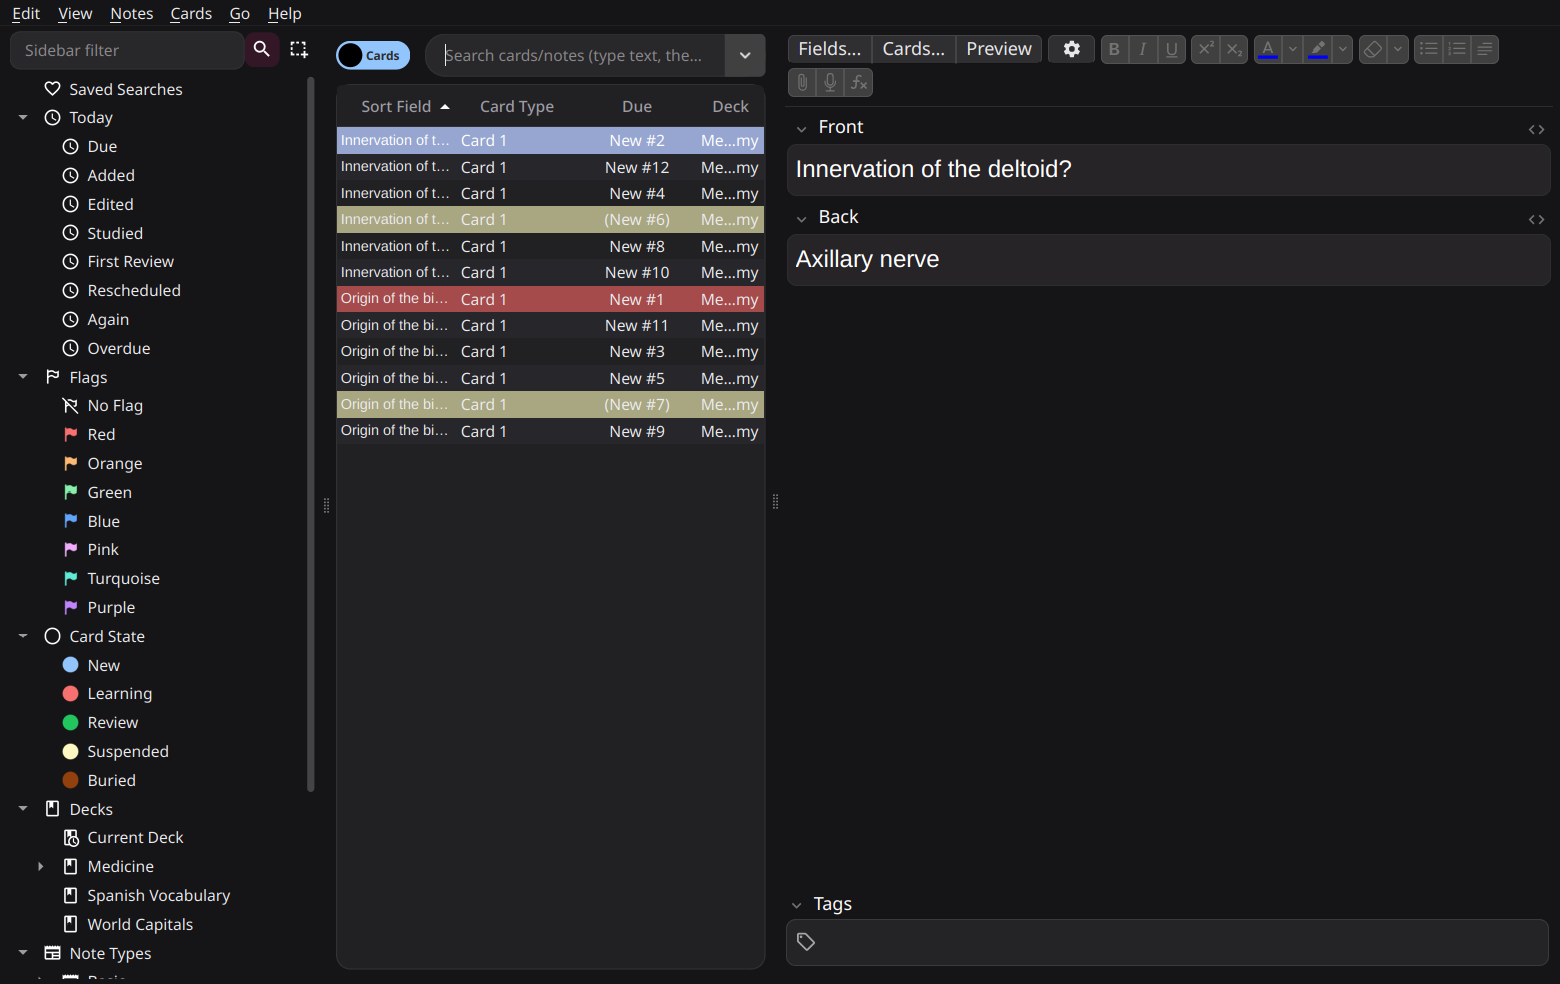
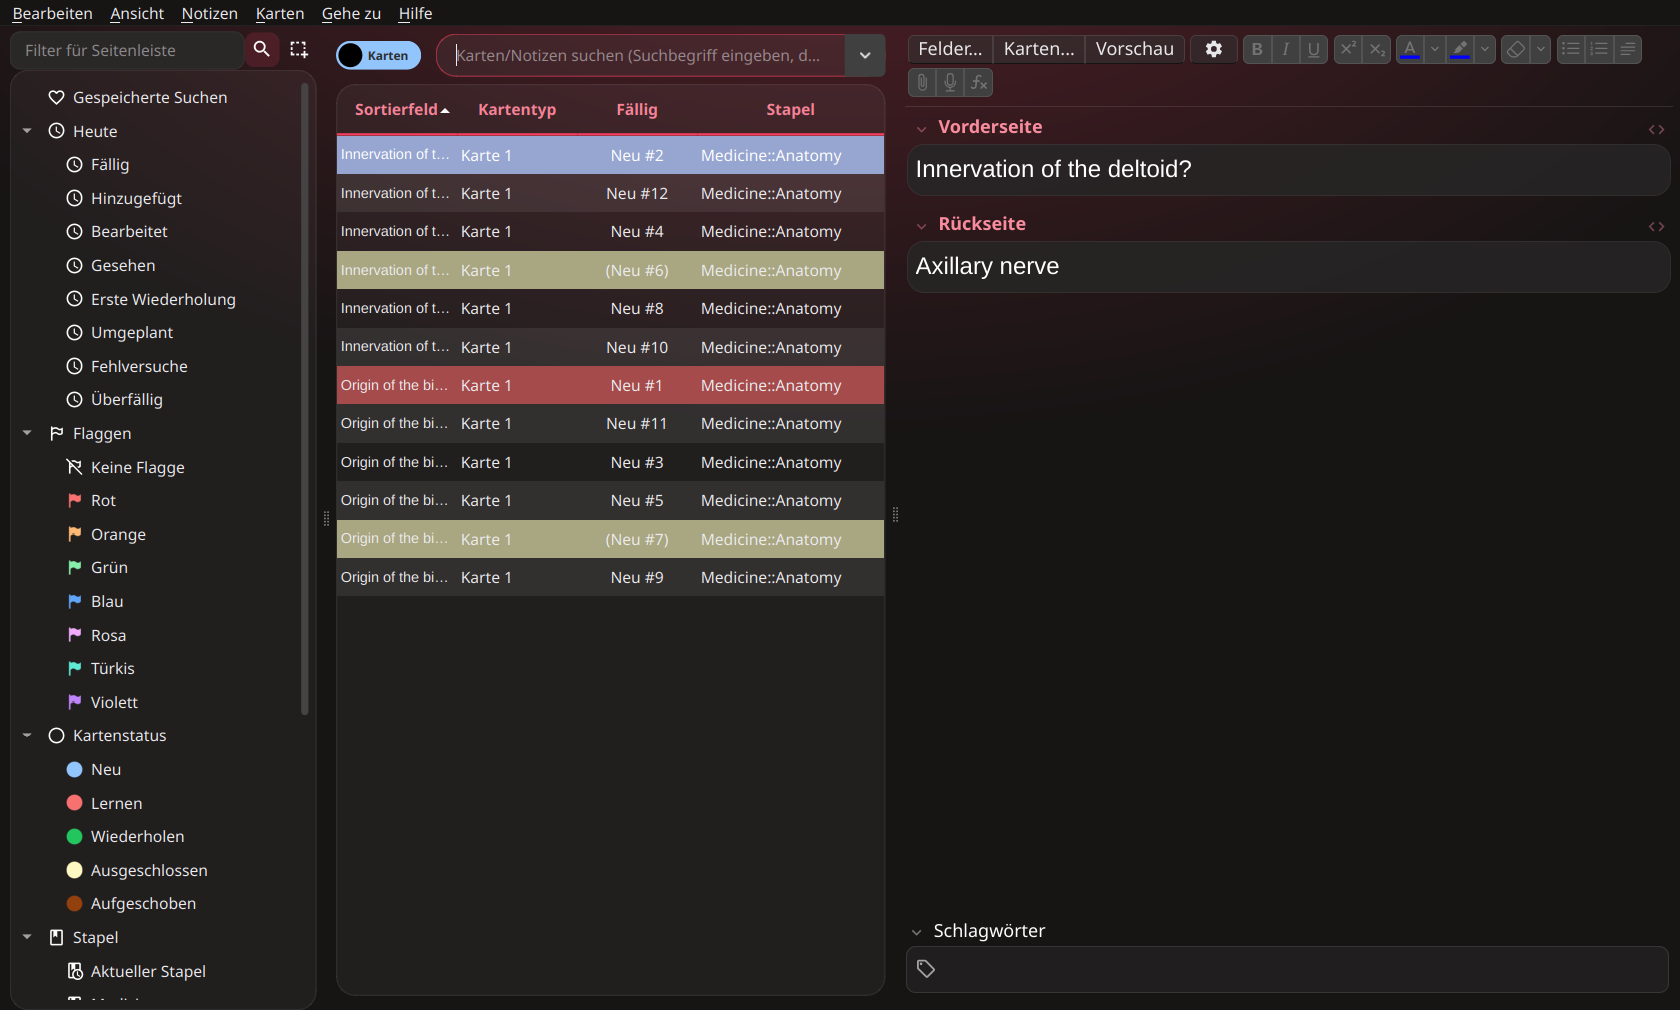
Bold window style for browser, editor, statistics and add window
Accent spotlight behind the window, floating glass panels, accent column
headers, field labels and headings, roomier card list. The editor page is
made transparent so the spotlight shows behind the fields. A "Subtle"
option keeps the previous colors-and-corners-only look.

Changed region(s): [[0.0, 0.0, 0.9846, 1.0], [0.5231, 0.9146, 0.6154, 0.9451], [0.4923, 0.9451, 0.5231, 0.9756]]

diff --git a/addon/windows.py b/addon/windows.py
@@ -43,6 +43,28 @@ QTreeView::item:hover {{ background: {hover}; }}
 QTreeView::item:selected {{ background: {accent_soft}; color: {accent_text}; }}
 """
 
+# "Kräftig": Spotlight in Akzentfarbe hinter dem Fenster, schwebende Glas-Karten, Akzente
+BOLD = """
+{root} {{ background: qradialgradient(cx:0.5, cy:-0.2, radius:1.05, fx:0.5, fy:-0.2,
+  stop:0 {glow}, stop:0.6 {window}, stop:1 {window}); }}
+{root} QTableView {{ background: {panel}; alternate-background-color: {panel_alt}; border: 1px solid {edge};
+  border-radius: 16px; }}
+{root} QHeaderView::section {{ background: transparent; color: {accent_text}; border: none;
+  border-bottom: 2px solid {accent}; padding: 9px 10px; font-weight: 650; }}
+{root} QTableCornerButton::section {{ background: transparent; }}
+{root} QComboBox#searchEdit {{ background: {panel}; border: 1px solid {accent_mid}; }}
+{root} QListWidget {{ background: {panel}; border: 1px solid {edge}; border-radius: 16px; }}
+{root} QListWidget::item:selected {{ background: {accent}; color: {on_accent}; }}
+"""
+
+SIDEBAR_BOLD = """
+QTreeView {{ background: {panel}; border: 1px solid {edge}; border-radius: 16px; padding: 8px 4px 8px 6px; outline: 0;
+  show-decoration-selected: 0; }}
+QTreeView::item {{ padding: 4px 6px; border-radius: 8px; }}
+QTreeView::item:hover {{ background: {hover}; }}
+QTreeView::item:selected {{ background: {accent}; color: {on_accent}; }}
+"""
+
 ADDON_LIST = """
 {root} QListWidget {{ background: {surface}; border: 1px solid {border}; border-radius: 12px; padding: 6px; outline: 0; }}
 {root} QListWidget::item {{ padding: 7px 10px; border-radius: 8px; }}
@@ -67,7 +89,17 @@ def _colors(cfg):
                  border=theme._mix(bg, "#000000", .1), track=theme._mix(bg, "#000000", .18))
     c["alt"] = "#26262b" if night else "#f8f8fa"
     c["hover"] = "rgba(255,255,255,.05)" if night else "rgba(0,0,0,.04)"
+    # für den kräftigen Stil
+    c["glow"] = theme._mix(c["window"], cfg["accent"], .30 if night else .18)
+    c["panel"] = "rgba(255,255,255,.045)" if night else "rgba(255,255,255,.80)"
+    c["panel_alt"] = "rgba(255,255,255,.075)" if night else "rgba(250,250,252,.88)"
+    c["edge"] = "rgba(255,255,255,.09)" if night else "rgba(0,0,0,.08)"
+    c["accent_mid"] = theme._rgba(cfg["accent"], .55)
     return c
+
+
+def _bold(cfg):
+    return cfg.get("window_style", "bold") == "bold"
 
 
 def _style_browser(browser, cfg):
@@ -75,9 +107,17 @@ def _style_browser(browser, cfg):
     root = "QMainWindow#ctWindow"
     browser.setObjectName("ctWindow")
     # Schriftgröße nicht anfassen: die Kartenverwaltung hat eine eigene Schrifteinstellung
-    browser.setStyleSheet(ui.stylesheet(c, root, font_size=None) + TABLE.format(root=root, **c))
-    browser.sidebar.setStyleSheet(SIDEBAR.format(**c))
-    browser.form.tableView.setShowGrid(False)
+    bold = _bold(cfg)
+    browser.setStyleSheet(ui.stylesheet(c, root, font_size=None) + TABLE.format(root=root, **c)
+                          + (BOLD.format(root=root, **c) if bold else ""))
+    browser.sidebar.setStyleSheet((SIDEBAR_BOLD if bold else SIDEBAR).format(**c))
+    table = browser.form.tableView
+    table.setShowGrid(False)
+    # luftigere Zeilen im kräftigen Stil; Ankis Höhe merken, um sie wiederherzustellen
+    header = table.verticalHeader()
+    if not hasattr(browser, "_ct_row_height"):
+        browser._ct_row_height = header.defaultSectionSize()
+    header.setDefaultSectionSize(browser._ct_row_height + (10 if bold else 0))
     if not getattr(browser, "_ct_popup", False):
         ui.modern_popup(browser.form.searchEdit)
         browser._ct_popup = True
@@ -87,6 +127,8 @@ def _unstyle_browser(browser):
     browser.setStyleSheet("")
     browser.sidebar._setup_style()  # Ankis eigenes Sidebar-Styling zurück
     browser.form.tableView.setShowGrid(True)
+    if hasattr(browser, "_ct_row_height"):
+        browser.form.tableView.verticalHeader().setDefaultSectionSize(browser._ct_row_height)
 
 
 def _style_addcards(window, cfg):
@@ -97,14 +139,15 @@ def _style_addcards(window, cfg):
     if add_button is not None:
         # Hauptaktion in Akzentfarbe; Name vor dem Stylesheet setzen, sonst greift die Regel nicht
         add_button.setObjectName("ctPrimary")
-    window.setStyleSheet(ui.stylesheet(c, root, font_size=None))
+    window.setStyleSheet(ui.stylesheet(c, root, font_size=None) + (BOLD.format(root=root, **c) if _bold(cfg) else ""))
 
 
 def _style_addons(dialog, cfg):
     c = _colors(cfg)
     root = "QDialog#ctAddons"
     dialog.setObjectName("ctAddons")
-    dialog.setStyleSheet(ui.stylesheet(c, root) + ADDON_LIST.format(root=root, **c))
+    dialog.setStyleSheet(ui.stylesheet(c, root) + ADDON_LIST.format(root=root, **c)
+                         + (BOLD.format(root=root, **c) if _bold(cfg) else ""))
 
 
 def _apply(window, kind, cfg):

diff --git a/addon/dialog.py b/addon/dialog.py
@@ -36,6 +36,12 @@ STRINGS = {
                      "erscheinen als Standbild.",
                      "Currently: {name}. Re-synced every time Anki starts. Live and video wallpapers "
                      "show up as a still image."),
+    "windows": ("Andere Fenster", "Other windows"),
+    "windows_hint": ("Kartenverwaltung, Hinzufügen, Statistik, Stapeloptionen und Add-on-Liste.",
+                     "Card browser, add, statistics, deck options and add-ons window."),
+    "window_style": ("Stil", "Style"),
+    "ws_bold": ("Kräftig: Spotlight, Glaskarten, Akzente", "Bold: spotlight, glass cards, accents"),
+    "ws_subtle": ("Dezent: nur Farben und Rundungen", "Subtle: colors and corners only"),
     "performance": ("Leistung", "Performance"), "perf_mode": ("Effekte", "Effects"),
     "perf_auto": ("Automatisch an die Hardware anpassen", "Adapt to the hardware automatically"),
     "perf_full": ("Alle Effekte", "All effects"),
@@ -425,6 +431,10 @@ class ThemeDialog(QDialog):
         self.compact = self._toggle(t("compact"))
         bars.row(self.compact)
 
+        wins = Section(t("windows"), t("windows_hint"))
+        self.window_style = wins.row(t("window_style"), self._combo(
+            [("bold", t("ws_bold")), ("subtle", t("ws_subtle"))]))
+
         perf = Section(t("performance"))
         self.performance = perf.row(t("perf_mode"), self._combo(
             [("auto", t("perf_auto")), ("full", t("perf_full")), ("light", t("perf_light"))]))
@@ -433,7 +443,7 @@ class ThemeDialog(QDialog):
         self.perf_info.setObjectName("ctHint")
         self.perf_info.setWordWrap(True)
         perf.row(self.perf_info)
-        return [perf, glass, shapes, bars]
+        return [perf, glass, shapes, bars, wins]
 
     def _hardware_text(self):
         hw = self.api.hardware()
@@ -554,6 +564,7 @@ class ThemeDialog(QDialog):
         self._set_combo(self.shadow, c["shadow"])
         self._set_combo(self.toolbar_style, c["toolbar_style"])
         self._set_combo(self.performance, c["performance"])
+        self._set_combo(self.window_style, c["window_style"])
         self.compact.setChecked(c["compact"])
         self.font_default.setChecked(not c["font_family"])
         # ohne eigene Schrift die Anki-Schrift vorauswählen, nicht den ersten Eintrag der Liste
@@ -584,6 +595,7 @@ class ThemeDialog(QDialog):
             "button_shape": self.button_shape.currentData(), "shadow": self.shadow.currentData(),
             "toolbar_style": self.toolbar_style.currentData(), "compact": self.compact.isChecked(),
             "performance": self.performance.currentData(),
+            "window_style": self.window_style.currentData(),
             "font_family": "" if self.font_default.isChecked() else self.font_family.currentFont().family(),
             "font_scale": self.font_scale.slider.value(),
             "count_badges": self.count_badges.isChecked(), "colored_answers": self.colored_answers.isChecked(),

diff --git a/addon/theme.py b/addon/theme.py
@@ -429,7 +429,28 @@ html body { background-color: var(--ct-canvas) !important; }
 .range-box { background: var(--ct-canvas) !important; border-bottom-color: var(--ct-border) !important; }
 """
 
-SCOPES = ("main", "bar", "card", "colors", "pages")
+# Kräftiger Fensterstil auf Statistik/Stapeloptionen: Spotlight und Überschriften in Akzentfarbe
+PAGES_BOLD = """
+html body { background: radial-gradient(ellipse 75% 55% at 50% -12%, var(--ct-glow), transparent 70%) fixed,
+  var(--ct-canvas) !important; }
+h1 { color: var(--ct-accent-text) !important; }
+.range-box { background: var(--ct-glass) !important; backdrop-filter: blur(var(--ct-blur)); }
+"""
+
+# Kräftiger Stil im Editor: durchsichtiger Hintergrund (das Fenster dahinter trägt den Spotlight),
+# Felder als Glaskarten, Feldnamen und Schlagwörter in Akzentfarbe
+EDITOR_BOLD = """
+html, html body { background: transparent !important; }
+.field-container, .label-container, .editing-area { background: transparent !important; }
+.editor-field { background: var(--ct-glass) !important; border: 1px solid var(--ct-glass-edge) !important;
+  border-radius: calc(var(--ct-radius) * .8) !important; }
+.label-container { color: var(--ct-accent-text) !important; font-weight: 600; }
+.fields { grid-gap: 12px !important; }
+.tag { background: var(--ct-accent-bg) !important; color: var(--ct-accent-text) !important;
+  border-radius: 999px !important; --border-color: transparent; }
+"""
+
+SCOPES = ("main", "bar", "card", "colors", "pages", "editor")
 
 COMPACT = """
 html body #outer, html body .overview, html body #studiedToday { padding: 8px !important; }
@@ -455,12 +476,16 @@ def build_css_text(cfg, scope="main", base_px=None, bg_url=None):
         for sel, night in (("html:root:not(.night-mode)", False), ("html:root.night-mode", True)):
             bg, pattern, mask = _background(cfg, night, bg_url)
             parts.append(f"{sel} {{ --ct-bg: {bg}; --ct-pattern: {pattern}; --ct-mask: {mask}; }}\n")
-    if scope == "pages":
+    if scope in ("pages", "editor"):
         r = cfg["radius"]
         radii = (f"--border-radius: {max(4, round(r * .45))}px; --border-radius-medium: {max(6, r)}px; "
                  f"--border-radius-large: {max(8, round(r * 1.3))}px;")
         parts.append(f"html:root:not(.night-mode), html:root.night-mode {{ {radii} }}\n")
         parts.append(PAGES_CSS)
+        if cfg.get("window_style", "bold") == "bold":
+            glow = _rgba(cfg["accent"], .22)
+            parts.append(f"html:root {{ --ct-glow: {glow}; }}\n")
+            parts.append(EDITOR_BOLD if scope == "editor" else PAGES_BOLD)
         return "".join(parts)
     if scope == "colors":
         parts.append(COLORS_ONLY)

diff --git a/addon/__init__.py b/addon/__init__.py
@@ -7,10 +7,10 @@ import re
 import sys
 import weakref
 
-from aqt import gui_hooks, mw
+from aqt import colors, gui_hooks, mw
 from aqt.deckbrowser import DeckBrowser, DeckBrowserBottomBar
 from aqt.overview import Overview, OverviewBottomBar
-from aqt.qt import QAction, QTimer
+from aqt.qt import QAction, QColor, QTimer
 from aqt.reviewer import Reviewer, ReviewerBottomBar
 from aqt.theme import theme_manager
 from aqt.toolbar import BottomToolbar, TopToolbar
@@ -126,20 +126,25 @@ def _style_page(web):
     try:
         cfg, _css = _cached()
         area = PAGE_AREAS.get(web.kind.value, "other")
-        text = _page_css() if cfg["areas"].get(area, False) else ""
+        enabled = cfg["areas"].get(area, False)
+        editor = area == "editor"
+        text = _page_css("editor" if editor else "pages") if enabled else ""
+        if editor:
+            # durchsichtig, damit der Fensterhintergrund (Spotlight) hinter den Feldern sichtbar ist
+            transparent = enabled and cfg.get("window_style", "bold") == "bold"
+            web.page().setBackgroundColor(QColor(0, 0, 0, 0) if transparent else theme_manager.qcolor(colors.CANVAS))
         web.eval(PAGE_JS % json.dumps(text))
     except Exception as e:
         log.record("page", e)
 
 
-_page_css_cache = None
+_page_css_cache = {}
 
 
-def _page_css():
-    global _page_css_cache
-    if _page_css_cache is None:
-        _page_css_cache = theme.build_css_text(_cached()[0], "pages")
-    return _page_css_cache
+def _page_css(scope):
+    if scope not in _page_css_cache:
+        _page_css_cache[scope] = theme.build_css_text(_cached()[0], scope)
+    return _page_css_cache[scope]
 
 
 def _on_page_styled(web):
@@ -164,7 +169,7 @@ def _highlight_today(deck_browser, content):
 def _refresh_ui():
     global _cache, _page_css_cache
     _cache = None
-    _page_css_cache = None
+    _page_css_cache = {}
     for web in list(_pages):
         _style_page(web)
     try:
@@ -188,7 +193,11 @@ def save_config(cfg):
 
 def _on_theme_change():
     # nach Ankis eigenen Handlern, die z.B. das Sidebar-Styling zurücksetzen
-    QTimer.singleShot(0, lambda: windows.refresh_all(load_config()))
+    def later():
+        windows.refresh_all(load_config())
+        for web in list(_pages):  # Anki setzt den Seitenhintergrund beim Wechsel zurück
+            _style_page(web)
+    QTimer.singleShot(0, later)
 
 
 def sync_desktop(cfg, force=False):

diff --git a/CHANGELOG.md b/CHANGELOG.md
@@ -6,6 +6,7 @@ Vor jedem Upload: `VERSION` in `__init__.py` erhöhen, hier eintragen, `./build.
 - Kartenverwaltung (Browse) im Deckorator-Look: abgerundete Kartenliste, Suchfeld als Pille, ruhigere Seitenleiste. Flaggen-, Markierungs- und Sperrfarben sowie die Auswahlfarbe bleiben wie in Anki
 - Add-on-Liste im Deckorator-Look
 - Editor (Hinzufügen, Bearbeiten, Kartenverwaltung), Statistik und Stapeloptionen in Theme-Farben und -Rundungen; Fokusrahmen in Akzentfarbe, „Hinzufügen“ als Hauptbutton
+- Fenster-Stil „Kräftig“ (Standard): Spotlight in Akzentfarbe, schwebende Glaskarten, akzentfarbene Spaltenköpfe, Feldnamen und Überschriften, luftigere Kartenliste. „Dezent“ unter Form → Andere Fenster
 - Jedes Fenster einzeln abschaltbar unter Erweitert → Anwenden auf
 
 ## 1.0.0 – 2026-10-20 (AnkiWeb: 1326296861)
